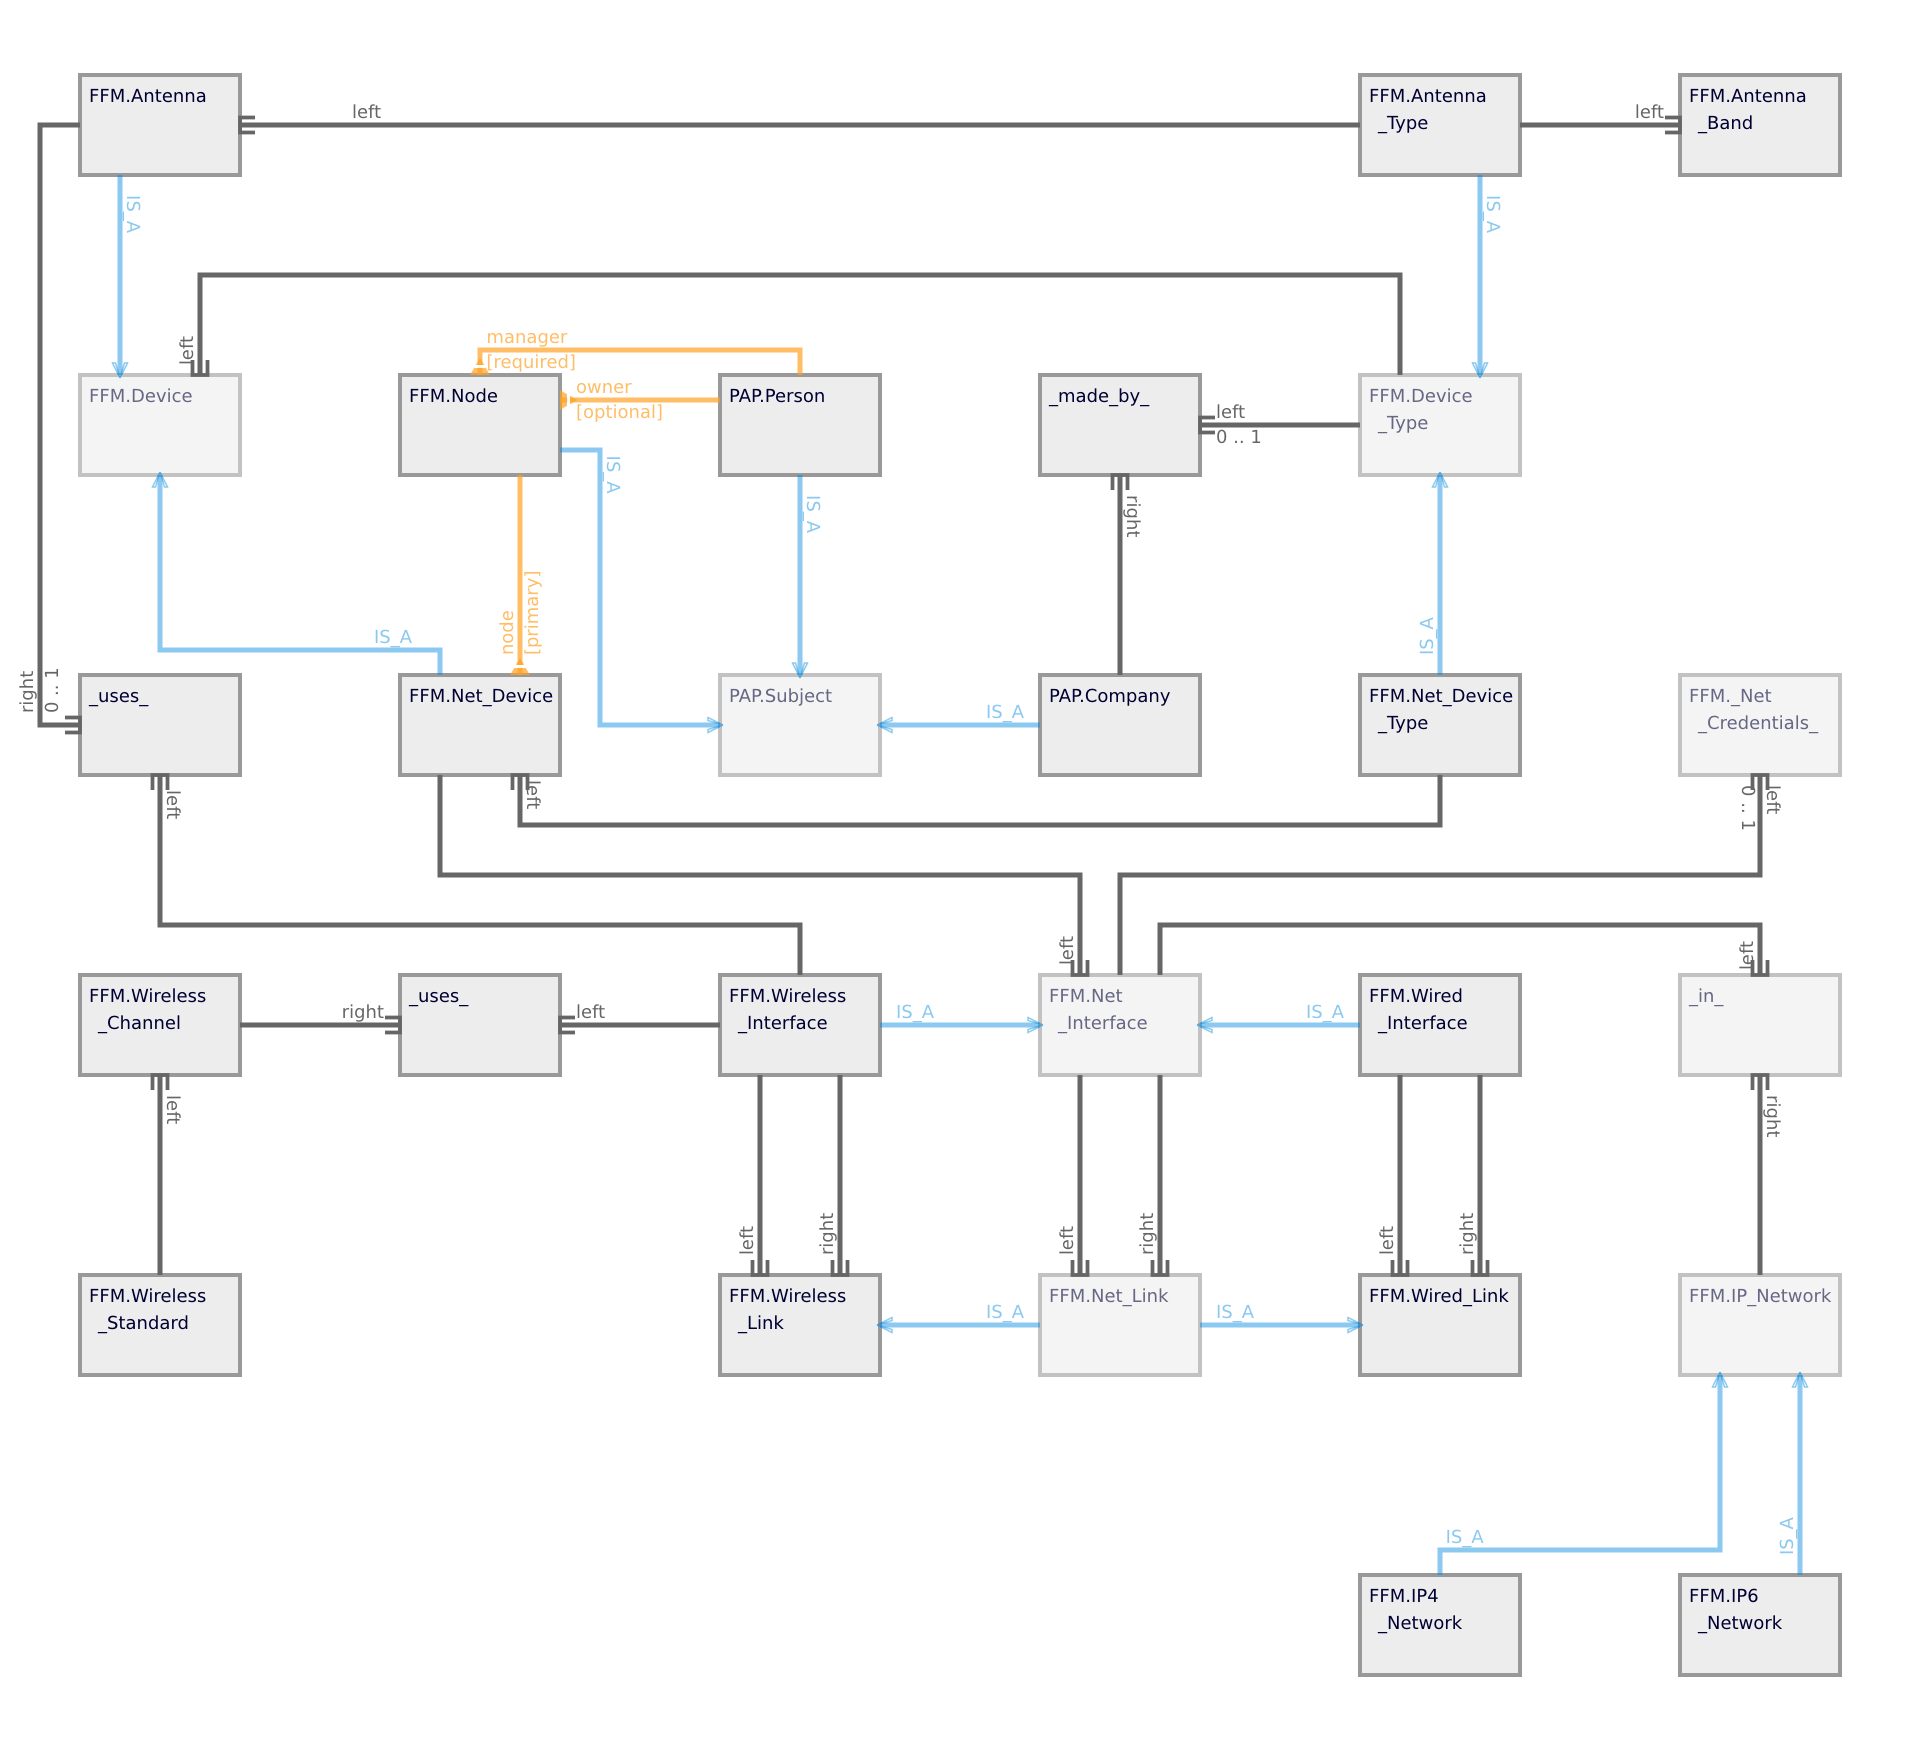
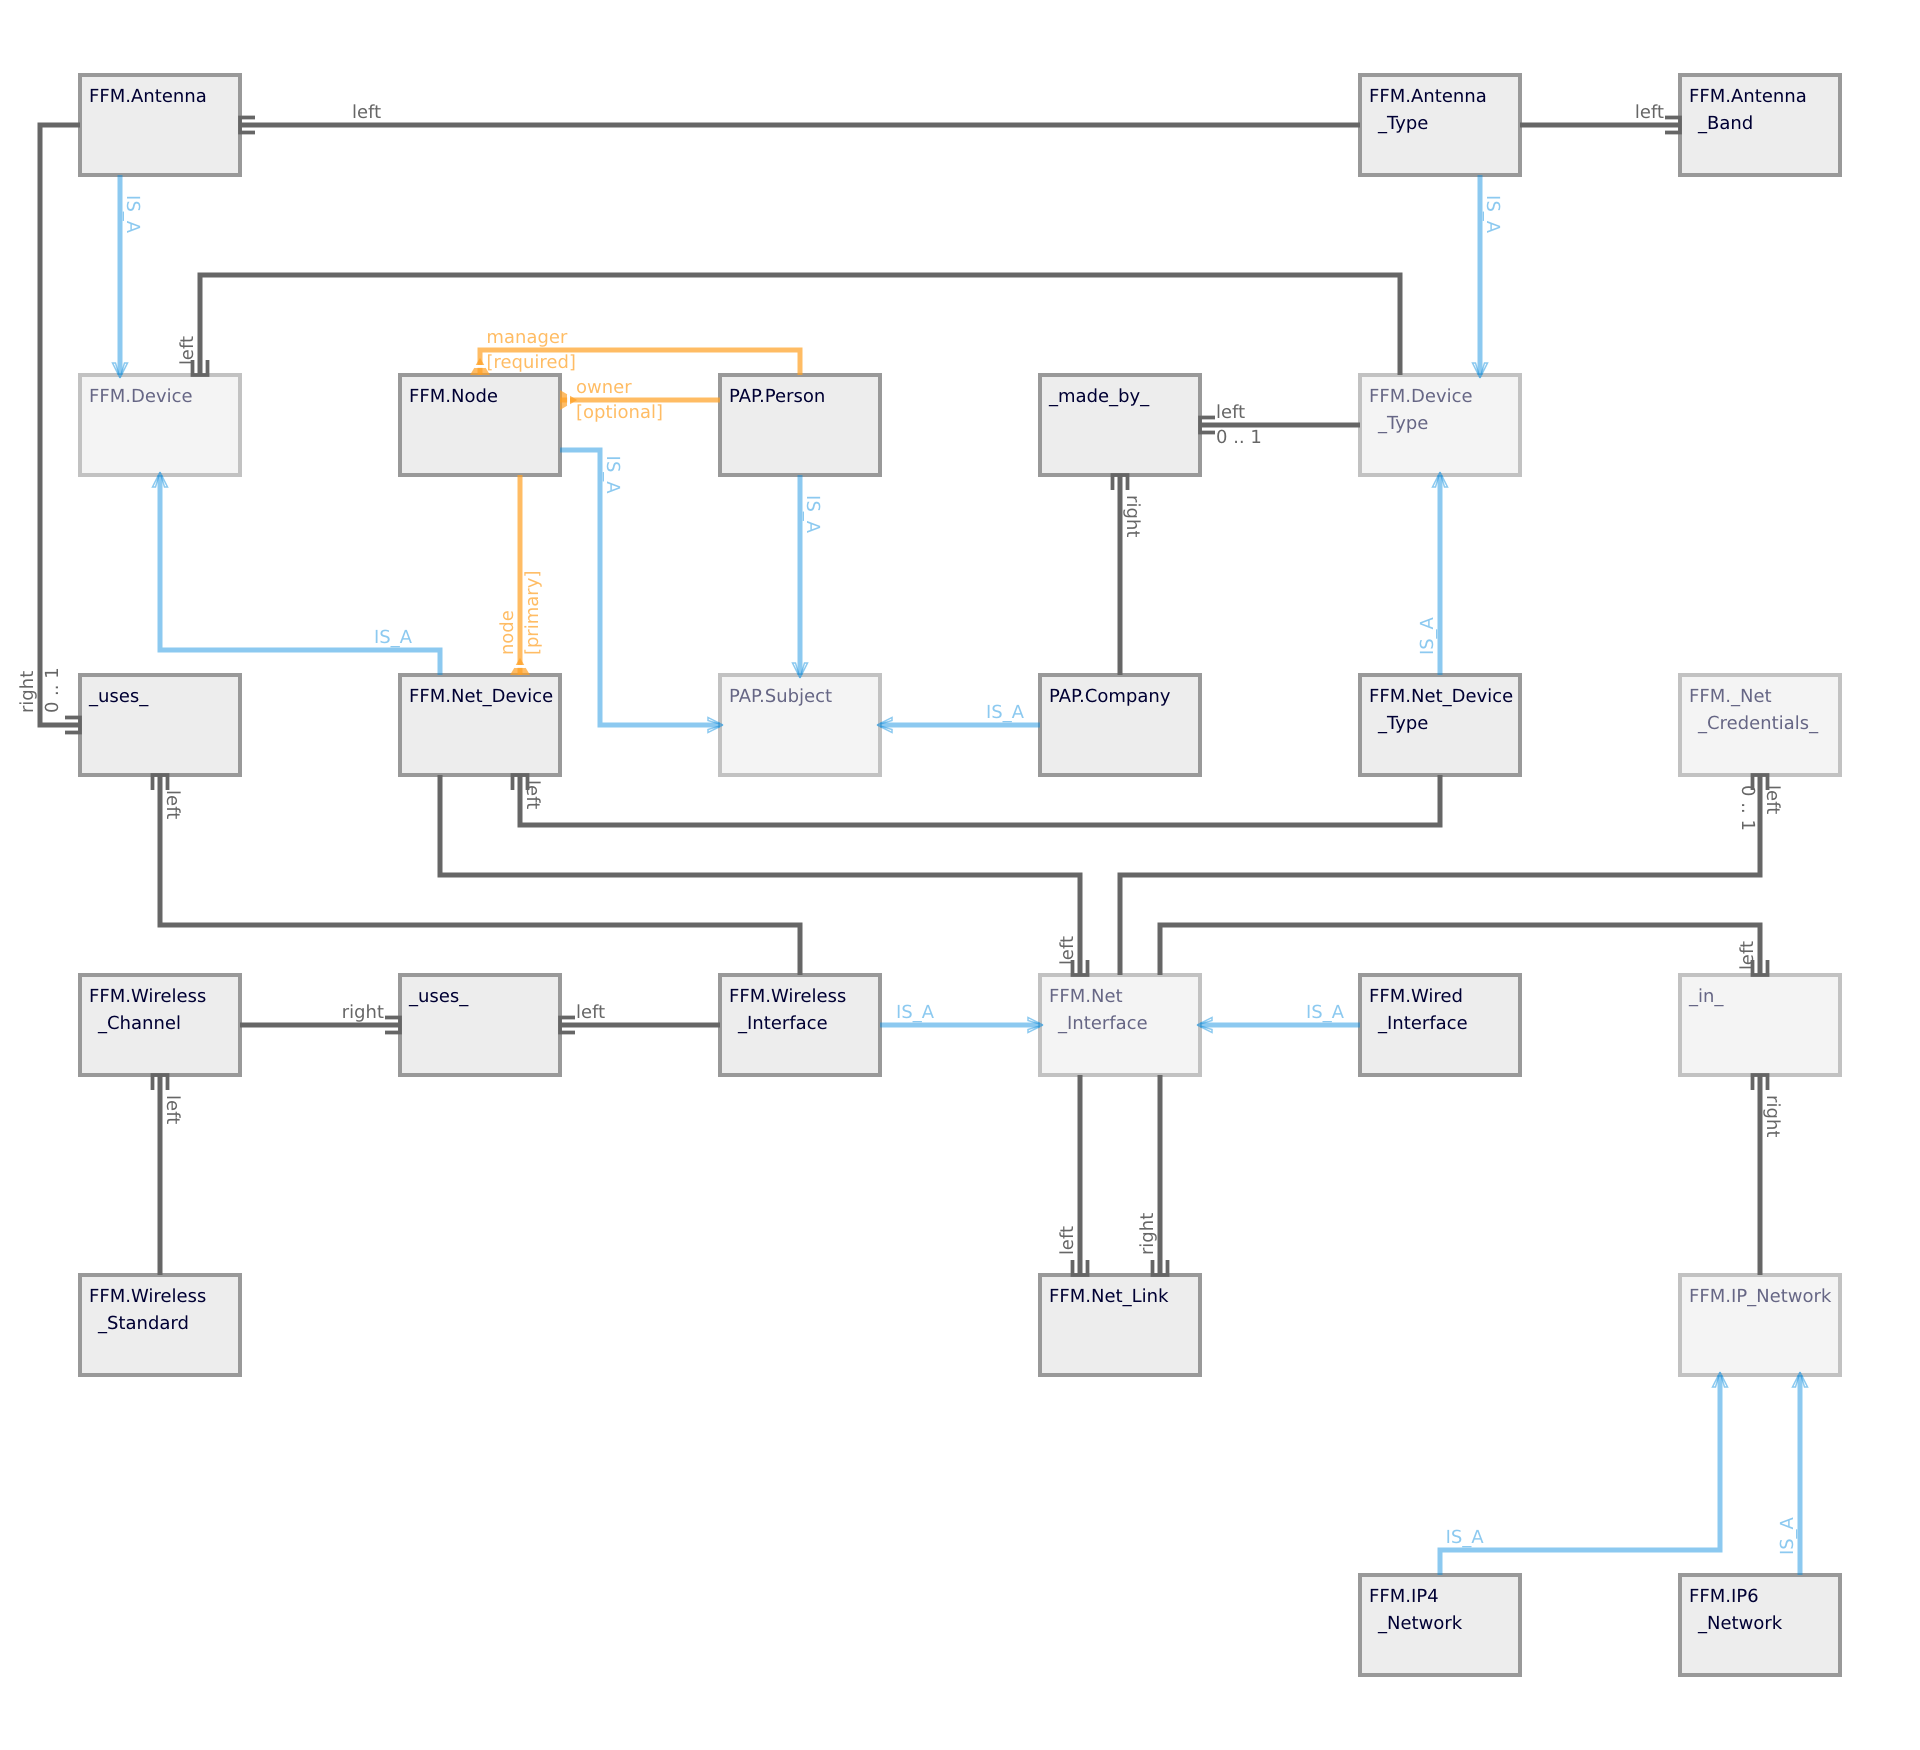
Add `Virtual_Wireless_Interface`, use `Net_Link`
Remove `Wired_Link` and `Wireless_Link`; instead make `Net_Link`
non-partial and allow links between wired and wireless interfaces (due
to bridges).

Changed region(s): [[0.375, 0.6789, 0.5938, 0.7714], [0.7188, 0.6789, 0.7812, 0.7406], [0.625, 0.7406, 0.7188, 0.7714]]

diff --git a/convert_cnml.py b/convert_cnml.py
@@ -176,10 +176,7 @@ class Convert (object) :
                     self.links [name].append (element.get ('id'))
                     left  = interface
                     right = self.ffm.Net_Interface.query (name = r_id).one ()
-                    if isinstance (left, self.ffm.Wireless_Interface.E_Type) :
-                        self.ffm.Wireless_Link (left, right)
-                    else :
-                        self.ffm.Wired_Link    (left, right)
+                    self.ffm.Net_Link (left, right)
                 else :
                     self.links [name] = [element.get ('id')]
             else :
@@ -199,7 +196,7 @@ class Convert (object) :
     def insert_wired_interface (self, device, element) :
         mac  = fix_mac (element.get ('mac'))
         name = element.get ('id')
-        wif  = self.ffm.Wireless_Interface.instance \
+        wif  = self.ffm._Wireless_Interface_.instance \
             ( left        = device
             , name        = name
             , mac_address = mac
@@ -239,7 +236,7 @@ class Convert (object) :
     # end def insert_wired_interface
 
     def insert_wireless_interface \
-        (self, device, radio, element, antenna, master) :
+            (self, device, radio, element, antenna, master) :
         mac  = fix_mac (element.get ('mac'))
         ssid = radio.get ('ssid')
         if ssid and len (ssid) > 32 :
@@ -261,9 +258,8 @@ class Convert (object) :
             , mode        = self.modes [mode]
             , raw         = True
             )
-        wif  = self.ffm.Wireless_Interface.instance (** param)
-        assert not (wif and master)
-        if master :
+        wif = self.ffm.Wireless_Interface.instance (** param)
+        if master and wif is None :
             wif = self.ffm.Virtual_Wireless_Interface.instance \
                 (hardware = master, ** param)
         if wif :

diff --git a/_FFM/__test__/Nodes.py b/_FFM/__test__/Nodes.py
@@ -94,9 +94,9 @@ _test_code = """
     >>> x = PAP.Node_has_Address (node2, adr2)
     Traceback (most recent call last):
       ...
-    Multiplicity: The new definition of Node_has_Address (FFM.Node (u'node2'), PAP.Address (u'example 44', u'1010', u'wien', u'austria')) would exceed the maximum number [1] of links allowed for FFM.Node (u'node2').
+    Multiplicity: The new definition of Node_has_Address (FFM.Node (u'node2'), PAP.Address (u'example 44', u'1010', u'wien', u'austria')) would exceed the maximum number [1] of links allowed for FFM.Node (u'node2',).
       Already existing:
-        PAP.Node_has_Address ((u'node2', ), (u'example 23', u'1010', u'wien', u'austria'))
+        PAP.Node_has_Address ((u'node2', 'FFM.Node'), (u'Example 23', u'1010', u'Wien', u'Austria', 'PAP.Address'))
 
 
     >>> gps2 = dict (lat = "48.367088", lon = "16.187672")
